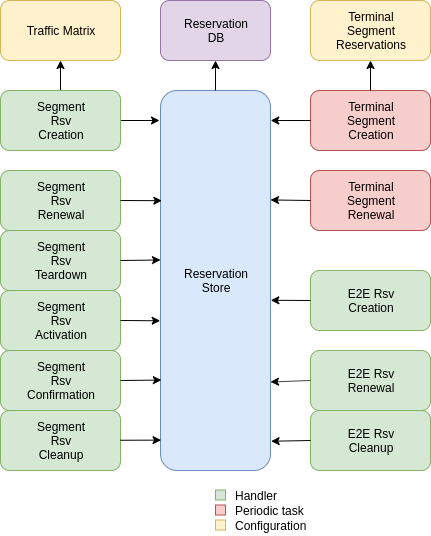
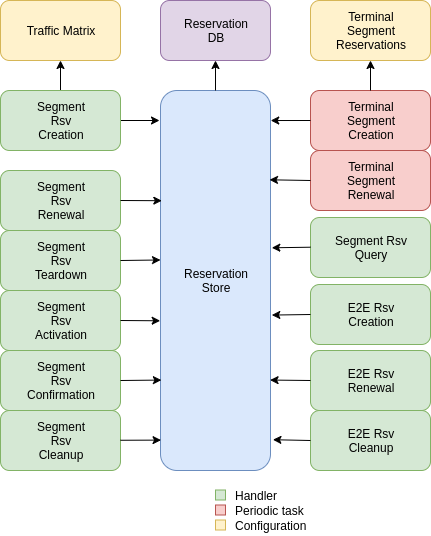
Updated design

diff --git a/doc/ColibriService.md b/doc/ColibriService.md
@@ -16,6 +16,12 @@ The border router is also modified so it understands COLIBRI type packets in the
 
 ## Design
 
+There are three main components that need to be modified or created: the colibri service itself, the border router and `sciond` in the endhost:
+
+* ***COS*** Enables the COLIBRI control plane. Used to negotiate both segment and end to end reservations.
+* **Border Router** Needs to forward the COLIBRI traffic with higher priority than best effort. Needs to monitor COLIBRI traffic.
+* **sciond** Needs to expose a COLIBRI *API*. Needs to manage end to end reservations in behalf of the applications.
+
 The COS is structured similarly to other existing Go infrastructure services. It reuses the following:
 
 * [go/lib/env](../go/lib/env): Is used for configuration and setup of the service.
@@ -32,8 +38,104 @@ The COS is differentiated into these parts:
 
 ![COS parts overview](fig/colibri_srv/COS.png).
 
-(which components do what, no UML)
-(pretty figures with colors, group the classes per functionallity: handler, periodic task, etc)
+
+## Sequence Diagrams
+
+TODO(juagargi) for now a simple list, move to diagram
+
+### Segment Reservations
+
+We use "forward the request" with the following meaning: if the current AS is not the last AS in the reservation path, send the request to the next AS in the resevation path. If the current AS is the last one, do nothing.
+
+#### Handle a Setup Response
+
+The response message originated from another AS's *COS* handling a request.
+The request is forwarded from AS<sub>i</sub> to AS<sub>i+1</sub>, where AS<sub>i+1</sub> is the next AS after AS<sub>i</sub> in the path of the reservation.
+
+1. The store saves the reservation as final.
+1. If this AS is the first one in the reservation path (aka *resevation initiator*), the store sends an index confirmation request to the next AS in the path.
+1. If this AS is the not the first one in the reservation path, the store sends a response message to the previous AS's *COS*.
+
+
+#### Handle a Setup Request
+
+(the reservation message originated from another AS nearer to the origin of the path in the reservation)
+
+1. The *COS* store is queried to admit the segment reservation.
+1. The store decides the admission for the reservation (how much bandwidth). It uses the _traffic_matrix_ from the configuration package.
+1. The store saves an intermediate reservation entry in the DB.
+1. If this AS is the last one in the path, the *COS* store saves the reservation as final and notifies the previous AS in the path with a reservation response.
+1. The store forwards the request with the decided bandwidth.
+
+
+#### Setup a Segment Reservation
+
+The configuration specifies which segment reservations should be created from this AS to other ASes. Whenever that configuration changes, the service should be notified.
+
+1. The service triggers the creation of a new segment reservation at boot time and whenever the segment reservation configuration file changes.
+1. The service reads the configuration file and creates a segment reservation request per each entry.
+    * The path used in the request must be obtained using the _path predicate_ in the configuration.
+1. The store in the *COS* saves the intermediate request and sends the request to the next AS in the path.
+1. If there is a timeout, this store will send a cleanup request to the next AS in the path.
+
+
+#### Handle an Index Confirmation Request
+
+1. The store in the *COS* checks that the appropriate reservation is already final.
+1. The store modifies the reservation to be confirmed
+1. The *COS* forwards the confirmation request.
+
+
+#### Handle a Cleanup Request
+
+1. The *COS* removes the referenced reservation from its store.
+1. The *COS* forwards the cleanup request.
+
+
+#### Handle a Teardown Request
+
+<!-- TODO: telescoped reservations using this reservations as base ? -->
+1. The *COS* checks the reservation is confirmed but has no allocated end to end reservations.
+1. The store removes the reservation.
+1. The *COS* forwards the teardown request.
+
+
+#### Handle a Renewal Request
+
+The renewal request handler is the same as the [setup request](#handle-a-setup-request). The renewal is initiated differently (by adding a new index to an existing reservation), but handled the same way.
+
+
+#### Renew a Segment Reservation
+
+1. The service triggers the renewal of the existing segment reservations with constant frequency.
+1. The store in the *COS* retrieves each one of the reservations that originate in this AS.
+1. Per reservation retrieved, the store adds a new index to it and pushes it forward.
+
+
+#### Handle a Reservation Query
+
+1. The store in the *COS* receives the query and returns the collection of segment reservations matching it.
+
+
+### End to End Reservations
+
+All end to end reservation requests should be authenticated.
+
+#### Handle a E2E Setup Request
+
+1. The *COS* queries the store to admit the reservation
+1. The store computes the allowed bandwidth (knowing the current segment reservation and the existing E2E reservations in it).
+1. The store pushes forward the setup request.
+
+
+#### Handle a Renewal Request
+
+The renewal request handler is the same as the [setup request](#handle-a-e2e-setup-request).
+
+#### Handle a Cleanup Request
+
+1. The *COS* removes the request from its store.
+1. The *COS* forwards the cleanup request.
 
 
 ## Interfaces
@@ -45,20 +147,29 @@ The store provides the following interface:
 
 ```go
 type ReservationStore {
-    // TODO(juagargi): two segment reservations can differ only in their path;
-    // this means that the path is part of the unique fields. pathAsIndex_t is some kind of ID for a path.
+    GetSegmentReservation(ctx context.Context, id SegmentReservationID) (SegmentReservation, error)
+    GetSegmentReservations(ctx context.Context, validTime time.Time, path []InterfaceId]) ([]SegmentReservation, error)
 
-    GetSegmentReservations(ctx context.Context, validTime time.Time, path pathAsIndex_t) ([]SegmentReservation, error)
-    GetSegmentReservation(ctx context.Context, token ReservationToken) (SegmentReservation, error)
-    InsertSegmentReservation(ctx context.Context, resv SegmentReservation) error
-    DeleteSegmentReservation(ctx context.Context, token ReservationToken) error
+    AdmitSegmentReservation(ctx context.Context, req SegmentReservationReq) error
+    ConfirmSegmentReservation(ctx context.Context, id SegmentReservationID) error
+    CleanupSegmentReservation(ctx context.Context, id SegmentReservationID) error
+    TearDownSegmentReservation(ctx context.Context, id SegmentReservationID) error
 
-    // GetE2EReservationCount will return the number of existing end to end reservations
-    // that are using the segment reservation specified by the token. If hostID is not empty, it will
-    // check if there already exists an E2E reservation for that host with this token.
-    GetE2EReservationCount(ctx context.Context, validTime time.Time, segmentReservationToken ReservationToken, host HostID) (int, error)
-    InsertE2EReservation(ctx context.Context, resv E2EResevation) error
-    // TODO(juagargi) other functions pending ...
+    AdmitE2EReservation(ctx context.Context, req E2EReservationReq) error
+    CleanupE2EReservation(ctx context.Context, id E2EReservationID) error
+}
+```
+
+The `sciond` endhost daemon will expose the *API* that enables the use of COLIBRI by applications:
+
+```go
+type sciond {
+    ...
+    AllowIPNet(ctx context.Context, ia IA, net IPNet) error  // TODO(juagargi) allow processes to just be notified of requests
+    BlockIPNet(ctx context.Context, ia IA, net IPNet) error
+    WatchSegmentRsv(ctx context.Context, pathConf PathConfiguration) (WatchState, error)
+    WatchE2ERsv(ctx context.Context, resvConf E2EResvConfiguration) (WatchState, error)
+    Unwatch(watchState WatchState) error
 }
 ```
 
@@ -68,26 +179,53 @@ type ReservationStore {
 (just the main classes, arity and relationship)
 (data relationships seem simple enough that we can probably skip them)
 
+```go
+type InterfaceIdPair struct
+    Ingress uint64
+    Egress  uint64
+}
+type SegmentReservationID struct {
+    Ifids   []InterfaceIdPair
+    Index   byte
+}
 
-## Sequence Diagrams
+type E2EReservationID uint16
+```
 
-(just one or two UML sequence diagrams to validate)
+## ReservationDB
 
-TODO(juagargi) for now a simple list, move to diagram
+### Segment reservations
 
-1. The service triggers the creation of a new segment reservation periodically (also at boot time).
-1. The store contained in the service is queried to admit the segment reservation.
-1. The store decides the admission for the reservation (how much bandwidth)
-1. The store saves an intermediate reservation entry in the DB
-1. The store requests the next AS in the reservation path for the decided bandwidth.
-1. The COLIBRI service in the next AS in the path receives the request.
-1. That service handles the request. This AS might be the last one in the path. If it is not, it repeats the previous steps.
-1. When the AS is the last one, the COLIBRI service via its store saves the reservation as final and notifies the previous AS in the path of the transaction.
-1. The COLIBRI service in the previous AS receives the notification (request to commit to this reservation).
-1. That service, via its store, saves the reservation as final and notifies the previous AS again. These steps are repeated until the first AS is reached.
-1. The COLIBRI service in the first AS is reached.
-1. That service, via its store, also writes down the reservation as final.
+```
+Table SegmentResvBase
+------------------------------------------
+ResvID              integer     unique              index
+Path                blob        unique              index
+PathType            smallint
+```
 
+```
+Table SegmentResvs
+------------------------------------------
+ResvID              integer     FK, unique_together     index_multicol
+Index               smallint    unique_together         index_multicol
+ExpirationTick      integer
+BWClass             smallint
+RLC                 smallint
+Token               blob
+```
+
+* Records can be found either by reservation ID or by path.
+* Path is a serialized byte array from the interface identifier pairs along the reservation path (16 bytes per pair). The IA (64 bits) of the origin and destination ASes is prepended and appended to the array. This builds a identifier which should be unique per path.
+
+```
+Table E2EResv
+------------------------------------------
+ResvID              integer     unique              index
+SegmentRsvID        integer     FK
+```
+
+### End to end reservations
 
 
 
